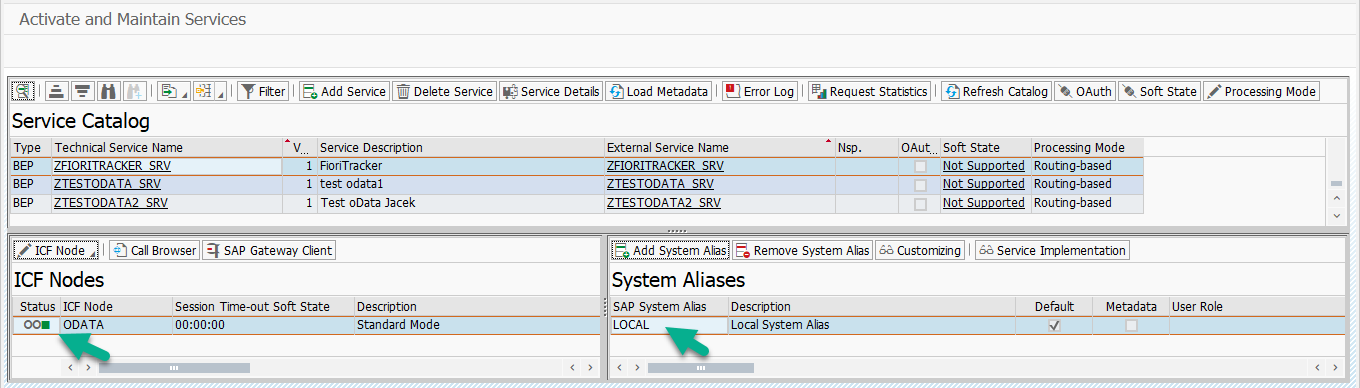
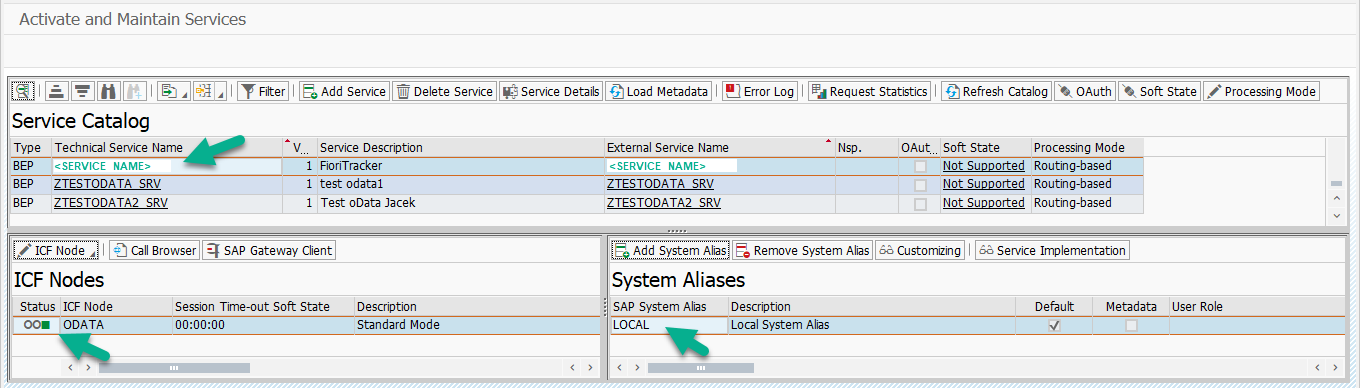
upd

Changed region(s): [[0.0309, 0.3402, 0.1853, 0.4639], [0.4324, 0.4021, 0.5559, 0.4639]]

diff --git a/docs/inst/step-3.md b/docs/inst/step-3.md
@@ -1,38 +1,40 @@
 # Step 3 - Enable oData service
 
-To enable oData service complete the sub-steps described below. 
+To enable oData service complete the steps described below. 
 
 !!! Note
-    When description refers to `Service name`, you need to put the service’s name of the run application. If you don't know the `Service name` please refer to the technical section of each product.
+    When description refers to &lt;service name&gt;, you need to put the service’s name of the run application. If you don't know the service name please refer to the technical section of each product.
 
 ## 1. Generate Runtime objects in transaction SEGW
 
-1.1. Start SAP Gui transaction **SEGW**<br>
-1.2. Using the menu *Project > Open* - Open project named as the first part of the `Service name`. Fe. if `Service name` is ZFIORITRACKER_SVR please open project called ZFIORITRACKER.
+1.1. Start SAP Gui transaction `SEGW`<br>
+1.2. Using the menu `Project` > `Open` - Open the project related to your &lt;service name&gt;. 
+
+To identify the project name, use the part of the &lt;service name&gt; preceding the underscore sign. Example: if &lt;service name&gt; is "ZFOO_SVR" please open project called "ZFOO".
 
 [![](res/segw.png)](res/segw.png)
 
-1.3. Go to Change mode and choose function **Generate** (you will be prompted for transport and your user must be registered as developer)
+1.3. Go to Change mode and choose function `Generate` (you will be prompted for transport and your user must be registered as developer)
 
 [![](res/segw_gen.png)](res/segw_gen.png)
 
 ## 2. Add the Service to Service Catalog
 
-2.1 Start SAP Gui transaction **/n/IWFND/MAINT_SERVICE**
+2.1 Start SAP Gui transaction `/n/IWFND/MAINT_SERVICE`
 
-2.2 Find entry with `Service name`
+2.2 Find entry with &lt;service name&gt;
 
 If the entry is present then move to sub-step 3 (Add system alias to ICF node), in not, please execute the following steps:
 
-2.3 Click on the **Add service** button.
+2.3 Click on the `Add service` button.
 
-2.4 Provide System Alias: LOCAL and External Service Name as the `Service name`.
+2.4 Provide System Alias: LOCAL and External Service Name as the &lt;service name&gt;.
 
-2.5 Select the record with `Service name` and click on the Add selected services button.
+2.5 Select the record with &lt;service name&gt; and click on the Add selected services button.
 
 ## 3. Add system alias to ICF node
 
-3.1 In **/n/IWFND/MAINT_SERVICE**, chose `Service name`
+3.1 In `/n/IWFND/MAINT_SERVICE`, chose &lt;service name&gt;
 
 3.2 If ICF node is green and alias is present (like below) then the procedure is completed.
 
@@ -40,12 +42,12 @@ If the entry is present then move to sub-step 3 (Add system alias to ICF node), 
 
 If not, please execute the following steps:
 
-3.3 Choose **Add system alias**, **New entry** and in column in *Service Doc. Identifier* type `Service name`_0001 (f.e. ZFIORITRACKER_SRV_0001), in *SAP System Alias* type "LOCAL" and in column *Default System* mark the check-mark.
+3.3 Choose `Add system alias`, `New entry` and in column in *Service Doc. Identifier* type &lt;service name&gt;_0001 (f.e. ZFOO_SRV_0001), in *SAP System Alias* type "LOCAL" and in column *Default System* mark the check-mark.
 
-3.4 Click on **ICF node** button and from drop down chose **Activate**
+3.4 Click on `ICF node` button and from drop down chose `Activate`
 
 [![](res/maint-service-icf.png)](res/maint-service-icf.png) 
 
-3.5 Click on **Load Metadata** button
+3.5 Click on `Load Metadata` button
 
 [![](res/maint-service-meta.png)](res/maint-service-meta.png) 
